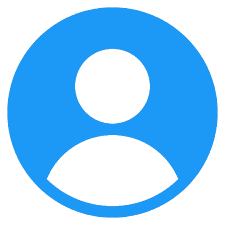
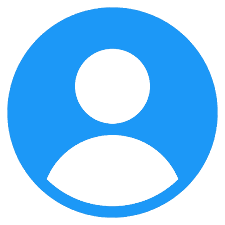
feature added - annonymous chat

diff --git a/src/components/home/index.jsx b/src/components/home/index.jsx
@@ -1,5 +1,6 @@
 import { Input, Tooltip } from "antd";
 import profile from "../../assets/img/profile.png";
+import random from "../../assets/img/random.gif";
 import wallpaper from "../../assets/img/wallpaper.png";
 import "./style.css";
 import { useEffect, useRef, useState } from "react";
@@ -8,6 +9,7 @@ import Message from "../message";
 import moment from "moment/moment";
 import { MESSAGE_TYPE } from "../../constant";
 import { getUsersApi } from "../../apis";
+import { BaseUrl } from "../../axios";
 
 const Home = () => {
   const typeMessage = useRef();
@@ -74,16 +76,30 @@ const Home = () => {
             </span>
           </div>
           <Input placeholder="Search" onPressEnter={search} />
+          <Chat
+            name="Anonymous Users"
+            profilePic={random}
+            annonymous={true}
+            onClick={() =>
+              setSelectedUser({
+                name: "Anonymous Users",
+                profilePic: random,
+                userName: "random",
+              })
+            }
+          />
         </div>
         <div
           className="overflow-auto"
-          style={{ height: "calc(max(100vh - 10.25rem  , 29.75rem))" }}
+          style={{ height: "calc(max(100vh - 16rem  , 25.5rem))" }}
         >
           {users?.map((user) => (
             <Chat
               key={user?.userName}
+              active={selectedUser?.userName === user?.userName}
               name={user?.name}
-              profilePic={user?.profilePic}
+              profilePic={user?.profilePic && BaseUrl + user?.profilePic}
+              lastMsg={{ text: "Hi", time: "10:10" }}
               onClick={() => setSelectedUser(user)}
             />
           ))}
@@ -98,8 +114,12 @@ const Home = () => {
               <Tooltip title="Info">
                 <div className="flex gap-3 cursor-pointer">
                   <img
-                    className="h-14 rounded-full"
-                    src={selectedUser?.profilePic || profile}
+                    className="h-14 w-14 rounded-full"
+                    src={
+                      selectedUser?.profilePic
+                        ? BaseUrl + selectedUser?.profilePic
+                        : profile
+                    }
                     alt=""
                   />
                   <div className="flex flex-col">

diff --git a/src/components/Chat/index.jsx b/src/components/Chat/index.jsx
@@ -1,26 +1,36 @@
 import profile from "../../assets/img/profile.png";
 
-const Chat = ({ name, profilePic, onClick }) => {
+const Chat = ({ name, profilePic, onClick, annonymous, lastMsg, active }) => {
   return (
     <div
-      className="flex items-center gap-3 px-5 py-2 cursor-pointer hover:bg-slate-200"
+      className={`flex items-center gap-3 cursor-pointer ${
+        annonymous
+          ? "bg-gray-900 text-white text-xl rounded-lg px-3 py-1"
+          : "px-5 py-2"
+      } ${active ? "bg-sky-600 text-white" : "hover:bg-slate-200"}`}
       onClick={onClick}
     >
       <img
-        className="h-12 rounded-full border border-sky-600"
+        className={`${annonymous ? "h-16 w-16" : "h-12 w-12"} ${
+          active ? "border-white" : "border-sky-600"
+        } rounded-full border`}
         src={profilePic || profile}
         alt=""
       />
       <div className="w-4/5">
         <div className="flex justify-between items-center">
           <span>{name}</span>
-          <span className="text-gray-400 text-xs">1:24</span>
+          <span className="text-gray-400 text-xs">{lastMsg?.time}</span>
         </div>
         <div className="flex gap-1 text-gray-400 text-xs">
-          <span className="flex text-base">
-            <ion-icon name="checkmark-done-outline" />
-          </span>
-          <span>Hi</span>
+          {lastMsg?.text && (
+            <>
+              <span className="flex text-base">
+                <ion-icon name="checkmark-done-outline" />
+              </span>
+              <span>{lastMsg?.text}</span>
+            </>
+          )}
         </div>
       </div>
     </div>

diff --git a/src/components/profile/Edit.jsx b/src/components/profile/Edit.jsx
@@ -81,18 +81,18 @@ const Edit = () => {
           </div>
         ) : (
           <img
-            className="absolute top-36 h-32 w-32 border-2 border-dotted border-sky-600 rounded-full cursor-pointer"
+            className="absolute bg-white top-36 h-32 w-32 border-2 border-dotted border-sky-600 rounded-full cursor-pointer"
             src={profilePic || profile}
             alt=""
           />
         )}
         <Form.Item className="absolute top-36">
-          <Form.Item
-            name="dragger"
-            valuePropName="fileList"
-            getValueFromEvent={""}
-          >
-            <Upload.Dragger name="file" customRequest={uploadImage}>
+          <Form.Item name="dragger" valuePropName="fileList">
+            <Upload.Dragger
+              name="file"
+              customRequest={uploadImage}
+              accept="image/png, image/jpeg, image/jpg"
+            >
               <Tooltip title="Click or drag file to upload">
                 <div
                   className="absolute top-0 z-10 h-32 w-32 text-3xl text-white cursor-pointer rounded-full flex items-center justify-center opacity-0 hover:opacity-100 transition-all"

diff --git a/src/components/header/index.jsx b/src/components/header/index.jsx
@@ -22,7 +22,11 @@ const Header = () => {
         <Tooltip title="Profile">
           <img
             className="h-10 w-10 border border-sky-600 rounded-full cursor-pointer"
-            src={BaseUrl + JSON.parse(localStorage.user)?.profilePic || profile}
+            src={
+              JSON.parse(localStorage.user)?.profilePic
+                ? BaseUrl + JSON.parse(localStorage.user)?.profilePic
+                : profile
+            }
             alt=""
           />
         </Tooltip>
